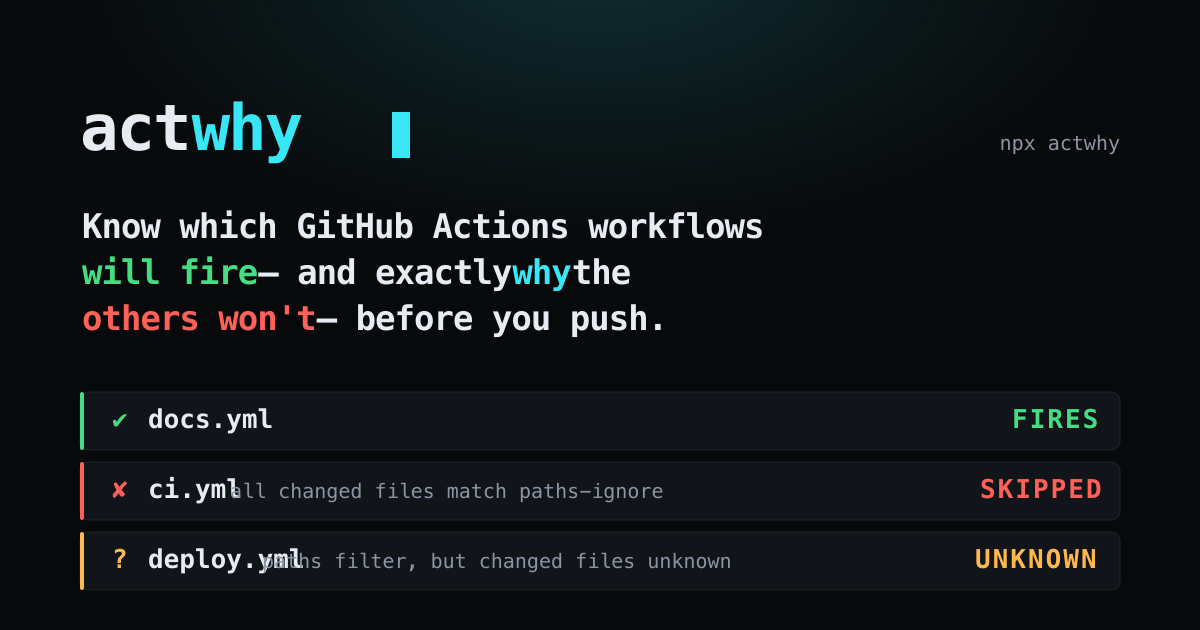
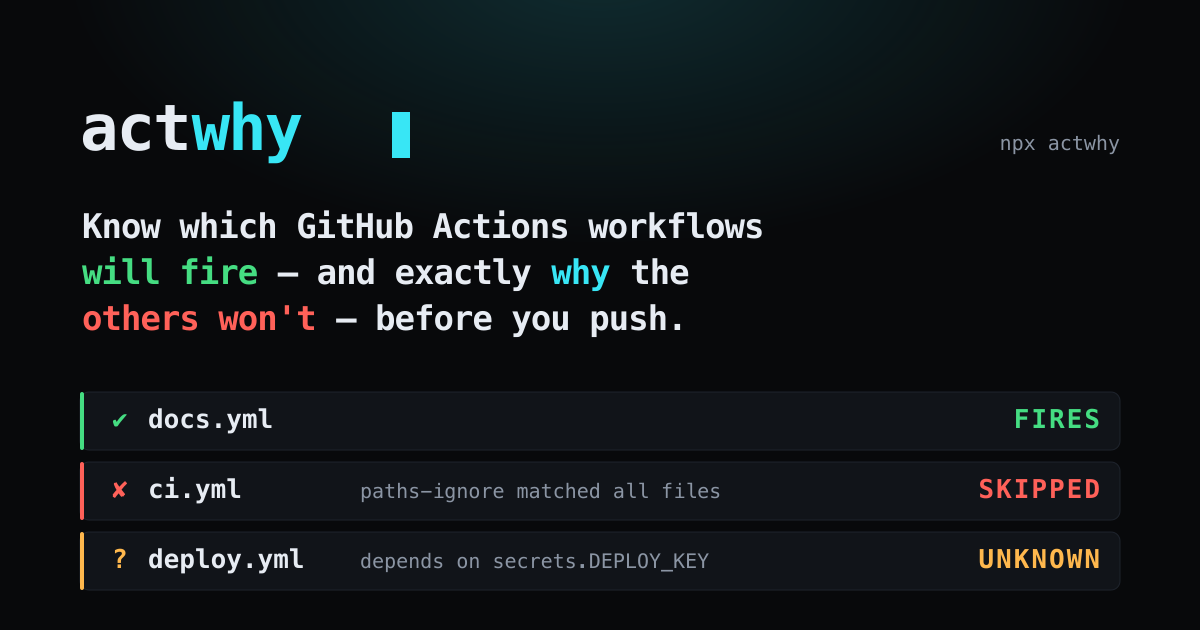
fix: pre-launch review fixes
- malformed filter patterns degrade to a per-workflow error verdict
  instead of crashing the whole run; star-atom quantifiers no longer nest
- in-sync branches simulate the last commit's push instead of a false
  'NOTHING fires' from an empty changed-file set
- global flags accepted before the subcommand (actwhy -C repo push)
- pin @actions/* exactly; keep dependency license notices in bundles
- web: remove unimplemented stdin claim, point npm links at GitHub until
  published, keyworded headings + hidden playground h2, tablist arrow-key
  navigation, scoped screen-reader announcements, fixed og image layout
- docs: correct --base default, add wrkflw/act -n to the comparison,
  precise 24-run fidelity counts, fix limitations examples
- keep internal planning docs out of the public tree

diff --git a/web/index.html b/web/index.html
@@ -34,7 +34,7 @@
     "operatingSystem": "Any",
     "description": "Know which GitHub Actions workflows will fire — and exactly why the others won't — before you push. A three-valued (fires / skipped / unknown) trigger explainer built on GitHub's own workflow parser.",
     "url": "https://actwhy.vercel.app",
-    "downloadUrl": "https://www.npmjs.com/package/actwhy",
+    "downloadUrl": "https://github.com/Co-Messi/actwhy",
     "softwareHelp": "https://github.com/Co-Messi/actwhy",
     "license": "https://opensource.org/licenses/MIT",
     "offers": { "@type": "Offer", "price": "0", "priceCurrency": "USD" },
@@ -112,6 +112,10 @@
       border-radius: 4px;
     }
 
+    .visually-hidden {
+      position: absolute; width: 1px; height: 1px; margin: -1px;
+      overflow: hidden; clip: rect(0 0 0 0); white-space: nowrap; border: 0; padding: 0;
+    }
     .skip-link {
       position: absolute; left: -999px; top: 0; z-index: 100;
       background: var(--accent); color: var(--accent-ink);
@@ -532,6 +536,7 @@
     </section>
 
     <section class="play" id="playground">
+      <h2 class="visually-hidden">Playground: simulate GitHub Actions triggers in your browser</h2>
       <div class="wrap play__grid">
         <!-- LEFT: editor + event controls -->
         <div class="panel" role="region" aria-label="Workflow editor and event controls">
@@ -622,18 +627,19 @@
             <span class="panel__label"><span class="hash">#</span> verdict</span>
             <span class="panel__label" style="color:var(--ink-faint)">re-evaluated live</span>
           </div>
-          <div class="results" id="results" aria-live="polite" aria-atomic="false"></div>
+          <p class="visually-hidden" id="results-status" role="status" aria-live="polite"></p>
+          <div class="results" id="results"></div>
         </div>
       </div>
     </section>
 
     <section class="band" id="why">
       <div class="wrap">
-        <h2 class="band__h">why it exists</h2>
+        <h2 class="band__h">Why didn't my GitHub Actions workflow run?</h2>
         <div class="benefits">
           <div class="benefit">
             <h3>Kill the <span class="k">push-debug-push</span> loop</h3>
-            <p>Stop committing “fix trigger 🙏”, pushing, waiting for the runner, and finding nothing ran. actwhy answers before you push — in milliseconds, offline.</p>
+            <p>Stop committing “fix trigger 🙏”, pushing, waiting for the runner, and finding nothing ran. Whether it's a <code>paths</code> filter that isn't matching, a <code>branches</code> pattern, or an <code>if:</code> condition — actwhy answers before you push, in milliseconds, offline.</p>
           </div>
           <div class="benefit">
             <h3>Three-valued <span class="k">honesty</span></h3>
@@ -649,7 +655,7 @@
 
     <section class="band" id="compare">
       <div class="wrap">
-        <h2 class="band__h">how it's different</h2>
+        <h2 class="band__h">How it compares to act and actionlint</h2>
         <div class="compare">
           <div class="cmp">
             <div class="cmp__name">act</div>
@@ -673,7 +679,7 @@
 
     <section class="band" id="install">
       <div class="wrap">
-        <h2 class="band__h">install</h2>
+        <h2 class="band__h">Install the CLI</h2>
         <div class="install-grid">
           <div class="install-cell">
             <span><span class="prompt" aria-hidden="true">$ </span><code>npx actwhy</code></span>
@@ -684,7 +690,7 @@
             <button class="copybtn" type="button" data-copy="npm i -g actwhy" aria-label="Copy npm i -g actwhy">copy</button>
           </div>
         </div>
-        <p style="margin:16px 0 0;color:var(--ink-dim);font-size:13px;">Point it at a repo and it reads <code>.github/workflows</code> directly, or pipe YAML on stdin. Same engine as this page.</p>
+        <p style="margin:16px 0 0;color:var(--ink-dim);font-size:13px;">Point it at a repo and it reads <code>.github/workflows</code> directly — zero configuration. Same engine as this page.</p>
       </div>
     </section>
   </main>
@@ -694,7 +700,7 @@
       <div class="foot__links">
         <span>MIT License</span>
         <a href="https://github.com/Co-Messi/actwhy" rel="noopener">GitHub</a>
-        <a href="https://www.npmjs.com/package/actwhy" rel="noopener">npm</a>
+        <a href="https://github.com/Co-Messi/actwhy/releases" rel="noopener">releases</a>
         <a href="https://github.com/Co-Messi/actwhy/issues/new?labels=fidelity&amp;title=Fidelity%20bug%3A%20" rel="noopener">Report a fidelity bug</a>
       </div>
       <div class="foot__built">Built on <a href="https://github.com/actions/languageservices" rel="noopener">@actions/workflow-parser</a> + @actions/expressions.</div>

diff --git a/src/cli/git.ts b/src/cli/git.ts
@@ -81,27 +81,43 @@ export function changedFilesForPush(dir: string): ChangedFiles | null {
   const pushName = refName("@{push}", dir);
   if (pushName) {
     const out = git(["diff", "--name-only", "@{push}..HEAD"], dir);
-    if (out !== null) return { files: uniqLines(out), source: `vs upstream ${pushName}` };
+    if (out !== null) {
+      const files = uniqLines(out);
+      // In-sync branch (0 outgoing commits): an empty set would produce a
+      // false "NOTHING fires". The question the user is asking is "what did
+      // my last push trigger?" — simulate the last commit instead.
+      if (files.length > 0) return { files, source: `vs upstream ${pushName}` };
+      return lastCommitFiles(dir, `in sync with ${pushName} — simulating the last commit's push`) ?? { files, source: `vs upstream ${pushName}` };
+    }
   }
 
   const upName = refName("@{u}", dir);
   if (upName) {
     const out = git(["diff", "--name-only", "@{u}..HEAD"], dir);
-    if (out !== null) return { files: uniqLines(out), source: `vs upstream ${upName}` };
+    if (out !== null) {
+      const files = uniqLines(out);
+      if (files.length > 0) return { files, source: `vs upstream ${upName}` };
+      return lastCommitFiles(dir, `in sync with ${upName} — simulating the last commit's push`) ?? { files, source: `vs upstream ${upName}` };
+    }
   }
 
   // No upstream: fall back to the most recent commit.
-  const hasParent = git(["rev-parse", "--verify", "-q", "HEAD~1"], dir);
-  if (hasParent !== null) {
-    const out = git(["diff", "--name-only", "HEAD~1..HEAD"], dir);
-    if (out !== null) return { files: uniqLines(out), source: "last commit only (no upstream)" };
-  }
+  const fallback = lastCommitFiles(dir, "last commit only (no upstream)");
+  if (fallback) return fallback;
 
   // Single-commit repo: HEAD has no parent, so show HEAD's own files.
   const out = git(["show", "--name-only", "--format=", "HEAD"], dir);
   if (out !== null) return { files: uniqLines(out), source: "first commit (all files)" };
 
   return null;
+}
+
+function lastCommitFiles(dir: string, source: string): ChangedFiles | null {
+  const hasParent = git(["rev-parse", "--verify", "-q", "HEAD~1"], dir);
+  if (hasParent === null) return null;
+  const out = git(["diff", "--name-only", "HEAD~1..HEAD"], dir);
+  if (out === null) return null;
+  return { files: uniqLines(out), source };
 }
 
 /** Result of inferring a PR's changed files; `files` is null when it can't be diffed. */

diff --git a/src/cli/index.ts b/src/cli/index.ts
@@ -77,15 +77,32 @@ function colorEnabled(noColorFlag: boolean): boolean {
 async function run(): Promise<number> {
   const argv = process.argv.slice(2);
 
-  // Peel the subcommand. A leading `push`/`pr` selects it; a leading flag
-  // keeps the default (push); a leading non-flag token is an unknown command.
+  // Peel the subcommand wherever it appears (`actwhy -C repo push` is as
+  // valid as `actwhy push -C repo`). A lenient union-options pre-parse lets
+  // flag VALUES that look like subcommands (e.g. `-b push`) be consumed as
+  // values, so the first true positional reliably names the subcommand.
   let sub: Subcommand = "push";
   let rest = argv;
-  if (argv[0] === "push" || argv[0] === "pr") {
-    sub = argv[0];
-    rest = argv.slice(1);
-  } else if (argv[0] !== undefined && !argv[0].startsWith("-")) {
-    return usage(`unknown command "${argv[0]}"`);
+  try {
+    const pre = parseArgs({
+      args: argv,
+      options: { ...PUSH_OPTS, ...PR_OPTS },
+      allowPositionals: true,
+      strict: false,
+      tokens: true,
+    });
+    const firstPositional = pre.tokens.find((t) => t.kind === "positional");
+    if (firstPositional) {
+      const word = argv[firstPositional.index];
+      if (word === "push" || word === "pr") {
+        sub = word;
+        rest = [...argv.slice(0, firstPositional.index), ...argv.slice(firstPositional.index + 1)];
+      } else {
+        return usage(`unknown command "${word}"`);
+      }
+    }
+  } catch {
+    // Fall through — the strict parse below reports the real error.
   }
 
   let values: Record<string, string | string[] | boolean | undefined>;

diff --git a/web/src/render.ts b/web/src/render.ts
@@ -196,6 +196,18 @@ export function renderReport(report: Report, mount: HTMLElement): void {
   const banner = bannerNode(report);
   if (banner) mount.append(banner);
 
+  // Announce a one-line summary instead of the whole rebuilt tree — a
+  // full-subtree aria-live region re-reads everything on each keystroke.
+  const status = document.getElementById("results-status");
+  if (status) {
+    const parts = [`${s.workflowsFiring} of ${s.workflowsTotal} workflows fire`];
+    if (s.workflowsSkipped > 0) parts.push(`${s.workflowsSkipped} skipped`);
+    if (s.workflowsUnknown > 0) parts.push(`${s.workflowsUnknown} unknown`);
+    if (s.workflowsError > 0) parts.push(`${s.workflowsError} invalid`);
+    if (report.nothingFires) parts.push("nothing fires for this event");
+    status.textContent = parts.join(", ");
+  }
+
   const list = el("div", { class: "wf-list" });
   for (const wf of report.workflows) list.append(workflowNode(wf));
   mount.append(list);

diff --git a/src/core/evaluate.ts b/src/core/evaluate.ts
@@ -159,7 +159,26 @@ async function evaluateOne(
   }
 
   const name = workflowName(template);
-  const trigger = evaluateTrigger(template.events, spec);
+  let trigger: ReturnType<typeof evaluateTrigger>;
+  try {
+    trigger = evaluateTrigger(template.events, spec);
+  } catch (e) {
+    // A malformed filter pattern (unterminated `[`, trailing `\`, invalid
+    // range) must cost this one workflow its verdict — never the whole run.
+    return {
+      file: file.name,
+      name,
+      verdict: "error",
+      reasons: [
+        {
+          code: "invalid-filter-pattern",
+          message: `invalid filter pattern: ${e instanceof Error ? e.message : String(e)}`,
+        },
+      ],
+      jobs: [],
+      warnings: [],
+    };
+  }
   if (trigger.verdict !== "fires") {
     return {
       file: file.name,

diff --git a/web/src/main.ts b/web/src/main.ts
@@ -96,6 +96,16 @@ function renderTabs(): void {
         setActive(idx);
       } else if (e.key === "F2") {
         beginRename(tab, label, idx);
+      } else if (e.key === "ArrowRight" || e.key === "ArrowLeft") {
+        // Roving tabindex: arrows move selection per the WAI-ARIA tabs pattern.
+        e.preventDefault();
+        const n = state.files.length;
+        const next = (idx + (e.key === "ArrowRight" ? 1 : n - 1)) % n;
+        setActive(next);
+        (tabsEl.querySelectorAll('[role="tab"]')[next] as HTMLElement | undefined)?.focus();
+      } else if (e.key === "Delete" && state.files.length > 1) {
+        e.preventDefault();
+        removeFile(idx);
       }
     });
 

diff --git a/src/core/patterns.ts b/src/core/patterns.ts
@@ -65,6 +65,10 @@ export function compilePattern(pattern: string): CompiledPattern {
       if (lastAtom === null) {
         // No preceding atom — GitHub treats this as a literal character.
         lastAtom = escapeChar(c);
+      } else if (lastAtom === "[^/]*" || lastAtom === ".*") {
+        // Quantifying a star atom doesn't change the language (`*+` ≡ `*`)
+        // but nesting quantifiers invites catastrophic backtracking.
+        // Keep the atom as-is.
       } else {
         lastAtom = `(?:${lastAtom})${c === "?" ? "?" : "+"}`;
       }

diff --git a/README.md b/README.md
@@ -31,6 +31,9 @@ npx actwhy                       # infers branch + outgoing changed files from g
 npx actwhy pr --base main        # simulate the same changes as a pull request
 ```
 
+> **Not on npm yet?** Until the first npm release lands, install from source —
+> see [Installation](#30-second-quick-start) below.
+
 Or install it:
 
 ```bash
@@ -81,13 +84,17 @@ And the case above, where the closest miss is surfaced so you know which filter 
 
 actwhy does not replace any of these tools — it answers a question none of them answer before you push.
 
-| | actwhy | act | actionlint | GitHub post-push logs |
-|---|---|---|---|---|
-| Explains trigger decisions **before** you push | Yes | No | No | No — only after the push |
-| Executes workflows | No | Yes | No | Yes |
-| Lints workflow syntax | No | No | Yes | Surfaces some errors at run time |
-| Needs Docker | No | Yes | No | No (runs on GitHub's infrastructure) |
-| Works offline | Yes | Needs the Docker daemon; pulls runner images on first use | Yes | No |
+| | actwhy | act | wrkflw | actionlint | GitHub post-push logs |
+|---|---|---|---|---|---|
+| Explains **why** each workflow fires or skips, pre-push | Yes — quotes the exact filter/condition | No | Partially — validates and simulates execution, not per-filter explanations | No | No — only after the push |
+| Executes workflows | No | Yes | Yes (local runtime) | No | Yes |
+| Lints workflow syntax | No | No | Validates | Yes | Surfaces some errors at run time |
+| Needs Docker / a runtime | No | Yes | Docker or emulation | No | No (runs on GitHub's infrastructure) |
+| Works offline | Yes | Needs the Docker daemon; pulls runner images on first use | Mostly | Yes | No |
+
+`act -n` (dry run) and `act -l` list jobs for an event, but they don't evaluate
+your actual push's branch/paths against the filters, and they can't tell you
+*why* something didn't match. That "why" is the entire point of actwhy.
 
 ## CLI reference
 
@@ -115,7 +122,7 @@ Simulate a pull request against a base branch.
 
 | Flag | Description |
 |---|---|
-| `--base <branch>` | Base (target) branch — what `branches:` filters match against. **Required.** |
+| `--base <branch>` | Base (target) branch — what `branches:` filters match against. Default: the repo's default branch (else `main`). |
 | `--head <branch>` | Head (source) branch. Default: the current git branch. |
 | `--type <activity>` | Activity type to simulate (`opened`, `synchronize`, `reopened`, …). Default: `opened`. |
 | `--draft` | Simulate a draft pull request. |
@@ -141,8 +148,9 @@ For the precise boundaries of v0.1 — which events are evaluated versus classif
 Before release, we pushed 12 crafted workflows and 13 ref events (commits with
 disjoint changed-file sets, seven branches probing the pattern grammar, one tag)
 to a scratch GitHub repository and recorded which workflows GitHub actually ran.
-**All 25 workflow-level trigger decisions and all 3 job-level `if:` decisions
-matched actwhy's predictions** — including the `?`/`+` quantifier semantics,
+GitHub started **24 workflow runs across those 13 events — actwhy predicted
+exactly those 24 and none of the ~130 other workflow×event combinations, and
+all 3 job-level `if:` decisions matched** — including the `?`/`+` quantifier semantics,
 `!` negation re-includes, `paths-ignore`'s all-files rule, tag-push versus
 branch-filter interplay, and the always-true `if:` footgun (GitHub really does
 run that job). The raw Actions API data and the case-by-case table live in

diff --git a/docs/limitations.md b/docs/limitations.md
@@ -33,7 +33,9 @@ Scheduled and reusable-workflow evaluation are on the [roadmap](../README.md#roa
 
 Some values simply do not exist until a workflow runs — most importantly `secrets.*` and `needs.<job>.outputs.*`. actwhy cannot and does not read secrets.
 
-**What actwhy says instead of guessing:** any verdict that genuinely depends on such a value becomes `UNKNOWN`, naming the exact value it lacks. Thanks to three-valued (Kleene) logic, this only happens when the value actually decides the outcome — `secrets.TOKEN != '' && false` is still a decisive `SKIPPED`. To resolve a real `UNKNOWN`, supply a payload with `--event payload.json`.
+**What actwhy says instead of guessing:** any verdict that genuinely depends on such a value becomes `UNKNOWN`, naming the exact value it lacks. Thanks to three-valued (Kleene) logic, this only happens when the value actually decides the outcome — a step condition like `secrets.TOKEN != '' && false` is still a decisive `SKIPPED`, because no possible value of the secret changes the result. (Note that GitHub does not allow `secrets` in *job-level* `if:` at all — actwhy reports that as the parse error GitHub itself would raise.)
+
+`--event payload.json` fills in **event payload** values (`github.event.*`) — a PR title, `forced`, `head_commit` details. It cannot supply `secrets.*`, `vars.*`, or `needs.*.outputs.*`; those stay honestly `UNKNOWN` by design.
 
 ### The always-true `if:` footgun
 

diff --git a/test/golden/README.md b/test/golden/README.md
@@ -6,9 +6,11 @@ GitHub repository and recorded which workflows GitHub actually ran
 (`live-runs-raw.json`, from the Actions REST API) and the per-job
 conclusions for the `if:` cases.
 
-Every actwhy prediction matched real GitHub behavior — 25/25 workflow-level
-trigger decisions and 3/3 job-level `if:` decisions, including the cases
-most tools get wrong:
+Every actwhy prediction matched real GitHub behavior: GitHub started 24
+workflow runs across the 13 ref events, actwhy predicted exactly those 24
+fired (and predicted "skip" for every other workflow×event combination that
+did not run), and all 3 job-level `if:` decisions matched — including the
+cases most tools get wrong:
 
 | Semantics probed | Case | GitHub did | actwhy predicts |
 |---|---|---|---|
